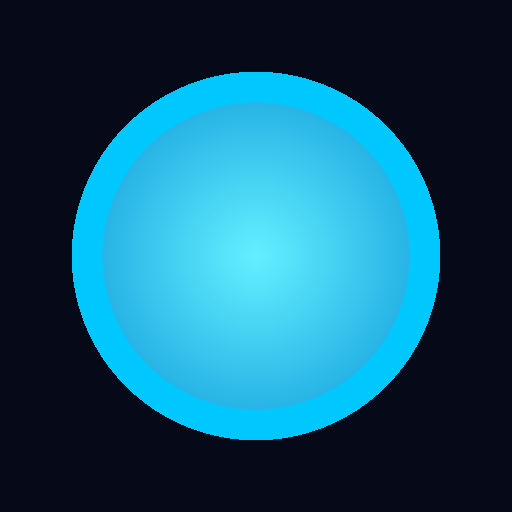
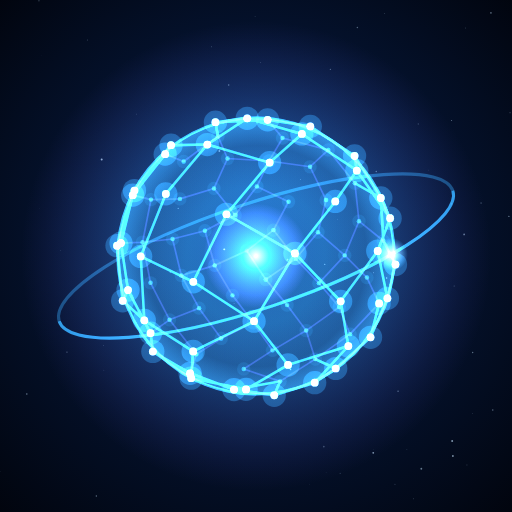
JARVIS OS : nouvelle icône (globe réseau) pour l'app et la nouvelle app
Claude-Session: https://claude.ai/code/session_01Gv3FVLo2h27tVTp6pvpUf9

diff --git a/essais/jarvis-os-maquette/index.html b/essais/jarvis-os-maquette/index.html
@@ -2,7 +2,7 @@
 /* JARVIS OS : sur le serveur du propriétaire, ses vraies données (jarvis-serveur.js) ; sur GitHub ou en local, les exemples. ?maquette ou ?serveur pour forcer. */
 (function () { var q = location.search, srv = /[?&]serveur\b/.test(q) || (location.protocol === 'https:' && !/github\.io$/i.test(location.hostname) && !/[?&]maquette\b/.test(q)); window.__JARVIS_MODE = srv ? 'serveur' : 'maquette'; document.write('<script src="' + (srv ? 'jarvis-serveur.js' : 'donnees-fictives.js') + '"><\/script>'); })();</script><script>/* JARVIS OS : thème « hologramme » par défaut (choisi le 16/11/2026) ; ?theme=actuel ou « Thème » dans Toutes les rubriques pour l'ancien, gardé dans le téléphone */
 (function () { var q = (location.search.match(/[?&]theme=(\w+)/) || [])[1], t = null; try { if (q) localStorage.setItem('jarvis.theme', q); t = localStorage.getItem('jarvis.theme'); } catch (e) { t = q; }
-  if (t !== 'actuel') { document.documentElement.classList.add('theme-holo'); var l = document.createElement('link'); l.rel = 'stylesheet'; l.href = 'https://fonts.googleapis.com/css2?family=Orbitron:wght@600;700&family=Oxanium:wght@500;600;700&family=Exo+2:wght@400;500;600;700&display=swap'; document.head.appendChild(l); } })();</script><script src="jarvis-voix.js"></script><meta name=viewport content="width=device-width,initial-scale=1,viewport-fit=cover"><style>:root{color-scheme:light;box-sizing:border-box;padding-top:env(safe-area-inset-top,0px);padding-bottom:env(safe-area-inset-bottom,0px)}html{scroll-padding-top:env(safe-area-inset-top,0px)}body{margin:0;padding:0;font:14px -apple-system,BlinkMacSystemFont,sans-serif;background:#fff;color:#000}img{max-width:100%}[hidden]:not([hidden=until-found i]){display:none!important}
+  if (t !== 'actuel') { document.documentElement.classList.add('theme-holo'); var l = document.createElement('link'); l.rel = 'stylesheet'; l.href = 'https://fonts.googleapis.com/css2?family=Orbitron:wght@600;700&family=Oxanium:wght@500;600;700&family=Exo+2:wght@400;500;600;700&display=swap'; document.head.appendChild(l); } })();</script><script src="jarvis-voix.js"></script><meta name=viewport content="width=device-width,initial-scale=1,viewport-fit=cover"><link rel="apple-touch-icon" href="icon-180.png"><link rel="icon" type="image/png" href="icon-192.png"><meta name="apple-mobile-web-app-title" content="JARVIS"><style>:root{color-scheme:light;box-sizing:border-box;padding-top:env(safe-area-inset-top,0px);padding-bottom:env(safe-area-inset-bottom,0px)}html{scroll-padding-top:env(safe-area-inset-top,0px)}body{margin:0;padding:0;font:14px -apple-system,BlinkMacSystemFont,sans-serif;background:#fff;color:#000}img{max-width:100%}[hidden]:not([hidden=until-found i]){display:none!important}
   /* ---------- JARVIS OS : navigation et écrans ajoutés ---------- */
   .fab-talk { display: none !important; }
   /* barre à tes favoris (bas) et toutes les rubriques */

diff --git a/jarvis-os/app/public/sw.js b/jarvis-os/app/public/sw.js
@@ -1,6 +1,6 @@
 /* Service worker : garde l'app pour l'ouvrir vite depuis l'écran d'accueil. Réseau d'abord, cache en secours. */
-const CACHE = 'jarvis-os-v2';
-self.addEventListener('install', (e) => { e.waitUntil(caches.open(CACHE).then((c) => c.addAll(['./', './index.html', './manifest.webmanifest', './icon-180.png', './icon-512.png'])).then(() => self.skipWaiting())); });
+const CACHE = 'jarvis-os-v3';
+self.addEventListener('install', (e) => { e.waitUntil(caches.open(CACHE).then((c) => c.addAll(['./', './index.html', './manifest.webmanifest', './icon-180.png', './icon-192.png', './icon-512.png'])).then(() => self.skipWaiting())); });
 self.addEventListener('activate', (e) => { e.waitUntil(caches.keys().then((ks) => Promise.all(ks.filter((k) => k !== CACHE).map((k) => caches.delete(k)))).then(() => self.clients.claim())); });
 self.addEventListener('fetch', (e) => {
   if (e.request.method !== 'GET' || new URL(e.request.url).origin !== location.origin) return;

diff --git a/jarvis-os/web/sw.js b/jarvis-os/web/sw.js
@@ -1,6 +1,6 @@
 /* Service worker : garde l'app pour l'ouvrir vite depuis l'écran d'accueil. Réseau d'abord, cache en secours. */
-const CACHE = 'jarvis-os-v2';
-self.addEventListener('install', (e) => { e.waitUntil(caches.open(CACHE).then((c) => c.addAll(['./', './index.html', './manifest.webmanifest', './icon-180.png', './icon-512.png'])).then(() => self.skipWaiting())); });
+const CACHE = 'jarvis-os-v3';
+self.addEventListener('install', (e) => { e.waitUntil(caches.open(CACHE).then((c) => c.addAll(['./', './index.html', './manifest.webmanifest', './icon-180.png', './icon-192.png', './icon-512.png'])).then(() => self.skipWaiting())); });
 self.addEventListener('activate', (e) => { e.waitUntil(caches.keys().then((ks) => Promise.all(ks.filter((k) => k !== CACHE).map((k) => caches.delete(k)))).then(() => self.clients.claim())); });
 self.addEventListener('fetch', (e) => {
   if (e.request.method !== 'GET' || new URL(e.request.url).origin !== location.origin) return;

diff --git a/docs/jarvis-os.md b/docs/jarvis-os.md
@@ -112,3 +112,4 @@ Comparatif complet (sa demande du 16/11/2026 : Hostinger, et « lesquelles tu pe
 - **16/11/2026 : refonte complète décidée** (retour très négatif sur la 0.9.0). Plan, demandes et décisions : `docs/jarvis-os-refonte.md` (app complète qui remplace la page Jarvis, accès Google direct, maquette d'abord, zéro régression).
 - **0.10.0 (16/11/2026) : accès Google direct**, première pièce du branchement de la refonte. Serveur : `google.mjs` (identifiant OAuth collé par le propriétaire, consentement Google, jeton durable gardé sur le serveur, renouvelé seul, révocable) et `POST /api/tool`, qui traduit les 13 outils de la page Jarvis en appels aux API Sheets, Calendar et Gmail avec les réponses de la forme des connecteurs claude.ai ; `POST /api/sample` (Claude ponctuel sans outil) ; la nouvelle app servie à `/os/`. Page : `jarvis-serveur.js` remplace `window.claude` (outils → serveur, Claude → `/api/sample`), choisi automatiquement sur le serveur ; écran **Réglages** (relier l'iPhone par code, guide en 5 étapes pour créer l'accès Google avec l'adresse de redirection à copier, « Connecter Google », « Tester mes données », déconnexion). Bancs : serveur 78 vérifications (faux Google `tests/fake-google.mjs` : heures de Paris été et hiver, plages avec accents, forme Gmail, renouvellement et retrait du jeton, révocation) ; de bout en bout dans Chromium (vrai serveur, faux Claude, faux Google) : relier, enregistrer, connecter, tester, page en direct sur 18 sources, aucune erreur. Pas encore : essai avec le vrai Google ; « Confier à la tâche Claude » (`fire_trigger`) et les outils de Claude dans la page (`preparer_ordre`…) ne sont pas encore traduits.
 
+- **16/11/2026, icône** : l'ancienne (rond bleu plat) jugée « trop nulle ». Quatre propositions dans le thème Hologramme (planche en grand, à la taille de l'écran d'accueil et en petit) ; choix (QCM) : **A · Globe réseau** (globe de points reliés, cœur lumineux, orbite, fond nuit bleue étoilé). Fichiers `icon-180.png`, `icon-192.png`, `icon-512.png`, `icon-maskable-512.png` dans l'app (`jarvis-os/app/public`, `jarvis-os/web`) et la nouvelle app (`essais/jarvis-os-maquette`, avec `apple-touch-icon` et le nom JARVIS) ; manifeste et cache du service worker (v3) mis à jour. Sur l'iPhone, l'icône d'un raccourci déjà posé ne change pas : le retirer de l'écran d'accueil et l'ajouter à nouveau après la mise à jour du serveur.
